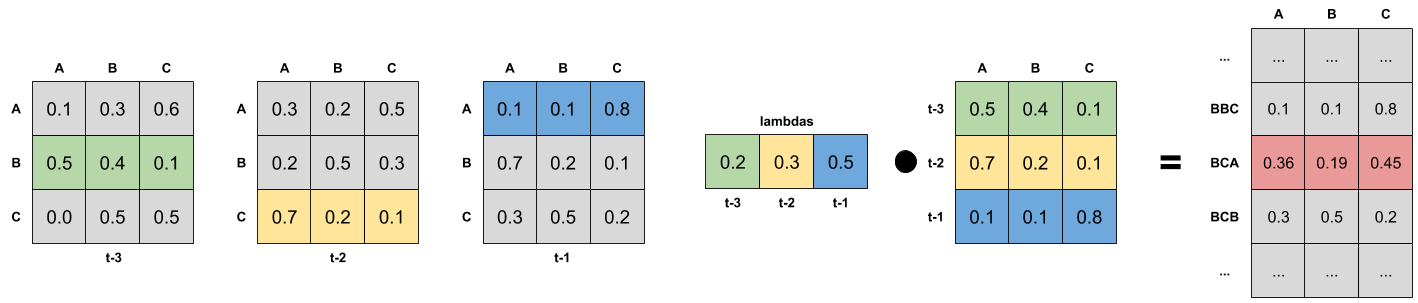
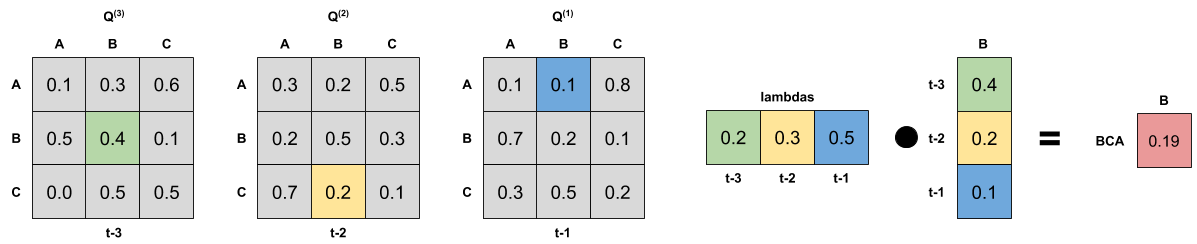
readme update

diff --git a/README.md b/README.md
@@ -18,7 +18,8 @@ To parameters have to meet following contraints to produce probabilities:
 
 ![mtd_constr](readme_images/mtd_contraints_small.png)
 
-The model can be easier understood as weighted probabilities (by _lambdas_) of Q<sub>g</sub> matrices:
+The model can be easier understood as weighted probabilities (by _lambdas_) of Q<sub>g</sub> matrices. The example below
+shows how to calculate a probability of transition B->C->A->B from an order 3 MTD model:
 
 ![mtd_img](readme_images/mtd.png)
 
